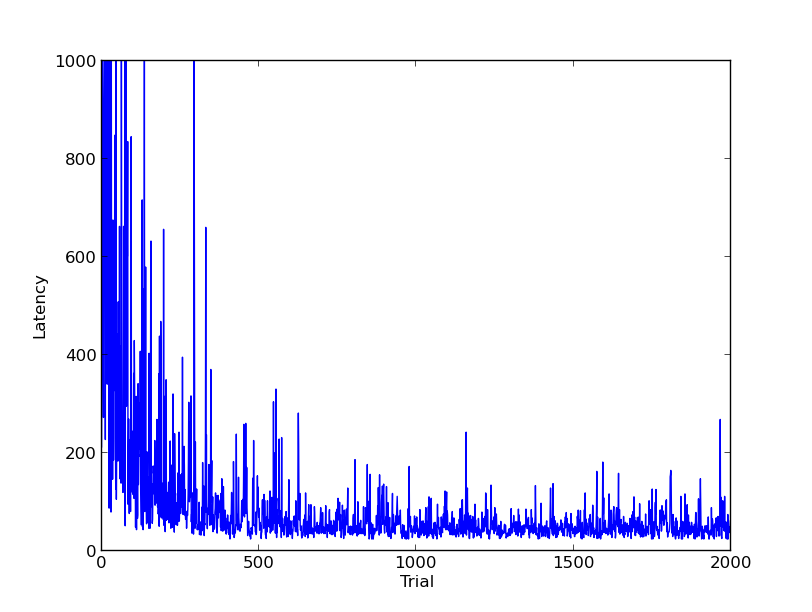
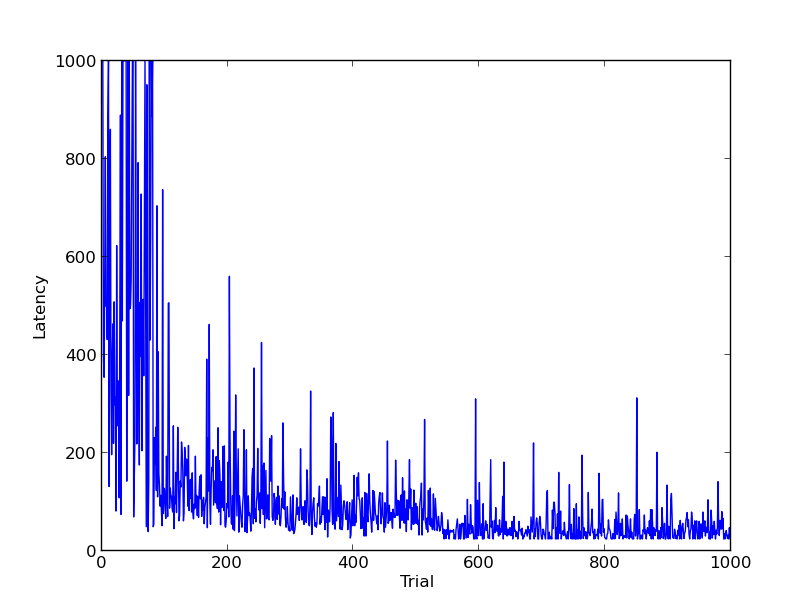
Mainly addition of graphs (navigation maps and latency and reward plots), apparently some changes to the code as well :p

Changed region(s): [[0.1232, 0.0931, 0.9236, 0.9314]]

diff --git a/p2/race.py b/p2/race.py
@@ -186,7 +186,7 @@ def train_and_show_navigation():
     monaco = track.track()
     ferrari = car.car()
         
-    n_trials = 1000
+    n_trials = 2000
     n_time_steps = 1000  # maximum time steps for each trial
     ferrari.reset()
     figure(0)
@@ -225,7 +225,7 @@ def train_and_show_navigation():
         if j%10 == 0:
             print 'Trial:', j
 
-        if j == 0 or j == 50 or j==100 or j==250 or j==500 or j==750 or j==999:
+        if j == 0 or j == 50 or j==100 or j==250 or j==500 or j==750 or j==999 or j==1250 or j==1500 or j==1750 or j==1999:
             figure(j+1)
             xlim(-0.1,1.1)
             ylim(-0.1,1.1)

diff --git a/p2/car.py b/p2/car.py
@@ -109,6 +109,7 @@ class car:
 
         quiver([i/float(xx) for i in range(xx+1)], [i/float(xx+1) for i in range(xx+1)],x_dir,y_dir)
         axis([-0.1,1.1,-0.1,1.1])
+        draw()
         show()
 
     def choose_action_no_rand(self, position, velocity, R, learn = True):
